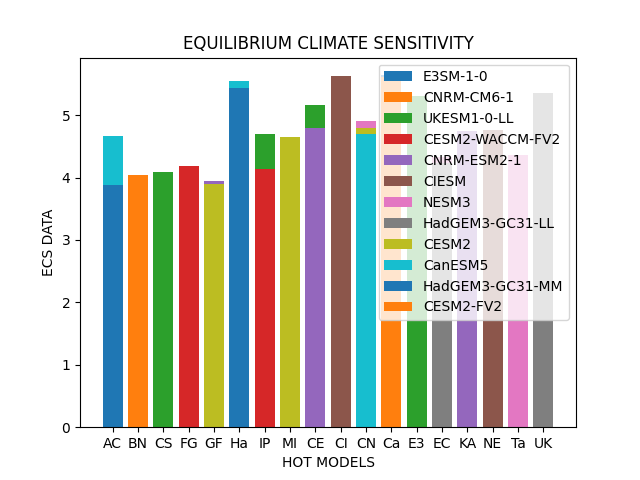
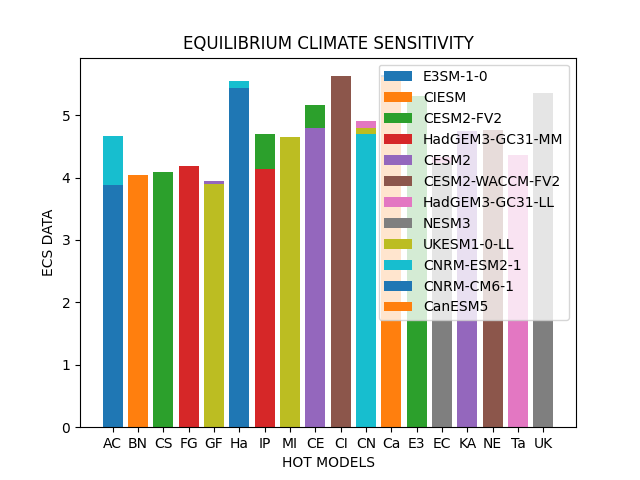
models

Changed region(s): [[0.6562, 0.1875, 0.875, 0.6562], [0.8438, 0.4688, 0.875, 0.5]]

diff --git a/sensitivity/make_cmip_chart.py b/sensitivity/make_cmip_chart.py
@@ -6,6 +6,8 @@ import json
 debug = False
 results = []
 threshold = 4.75
+all_models = True
+#all_models = False
 
 r = requests.get('https://raw.githubusercontent.com/mzelinka/cmip56_forcing_feedback_ecs/master/cmip56_forcing_feedback_ecs.json')
 
@@ -59,9 +61,15 @@ for model in results:
           x_name.append(name)
         elif value > threshold - 1:
           plt.bar(name[0:2], value)
+        elif all_models == True:
+          plt.bar(name[0:2], value)
 
 plt.legend(set(x_name))
-plt.xlabel('HOT MODELS')
 plt.ylabel('ECS DATA')
 plt.title('EQUILIBRIUM CLIMATE SENSITIVITY')
-plt.savefig('hot_models.png')
+if all_models:
+  plt.xlabel('ALL MODELS')
+  plt.savefig('all_models.png')
+else:
+  plt.xlabel('HOT MODELS')
+  plt.savefig('hot_models.png')

diff --git a/sensitivity/README.md b/sensitivity/README.md
@@ -3,3 +3,6 @@
 <p>
   <img src=https://github.com/nand0p/heat/blob/master/sensitivity/hot_models.png?raw=true
 <p>
+<p>
+  <img src=https://github.com/nand0p/heat/blob/master/sensitivity/all_models.png?raw=true
+<p>
